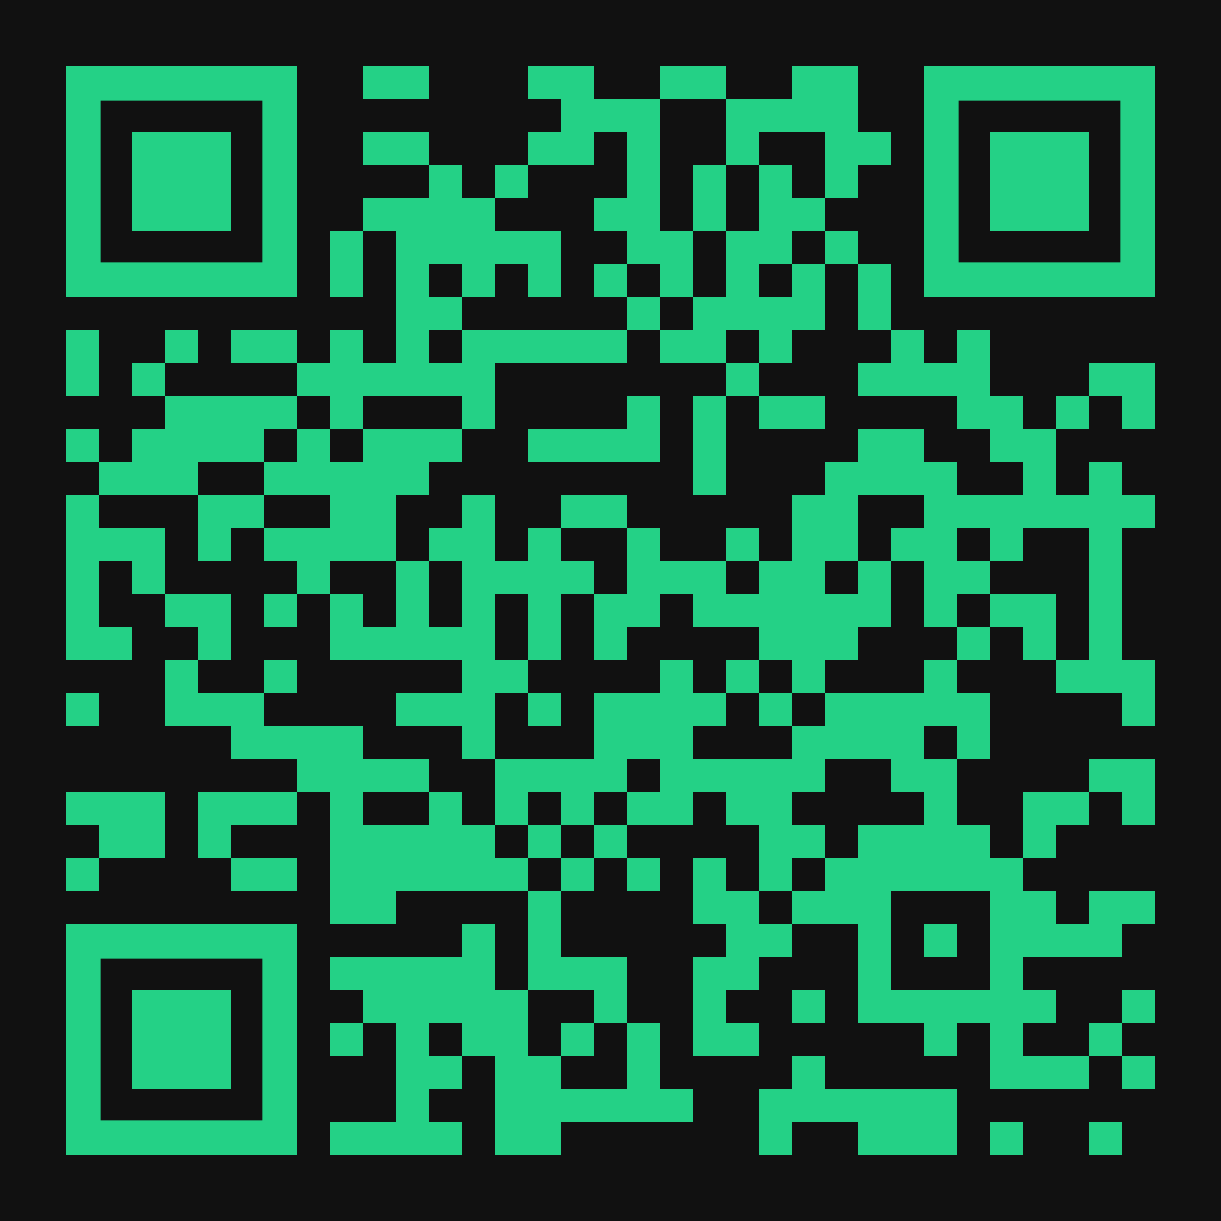
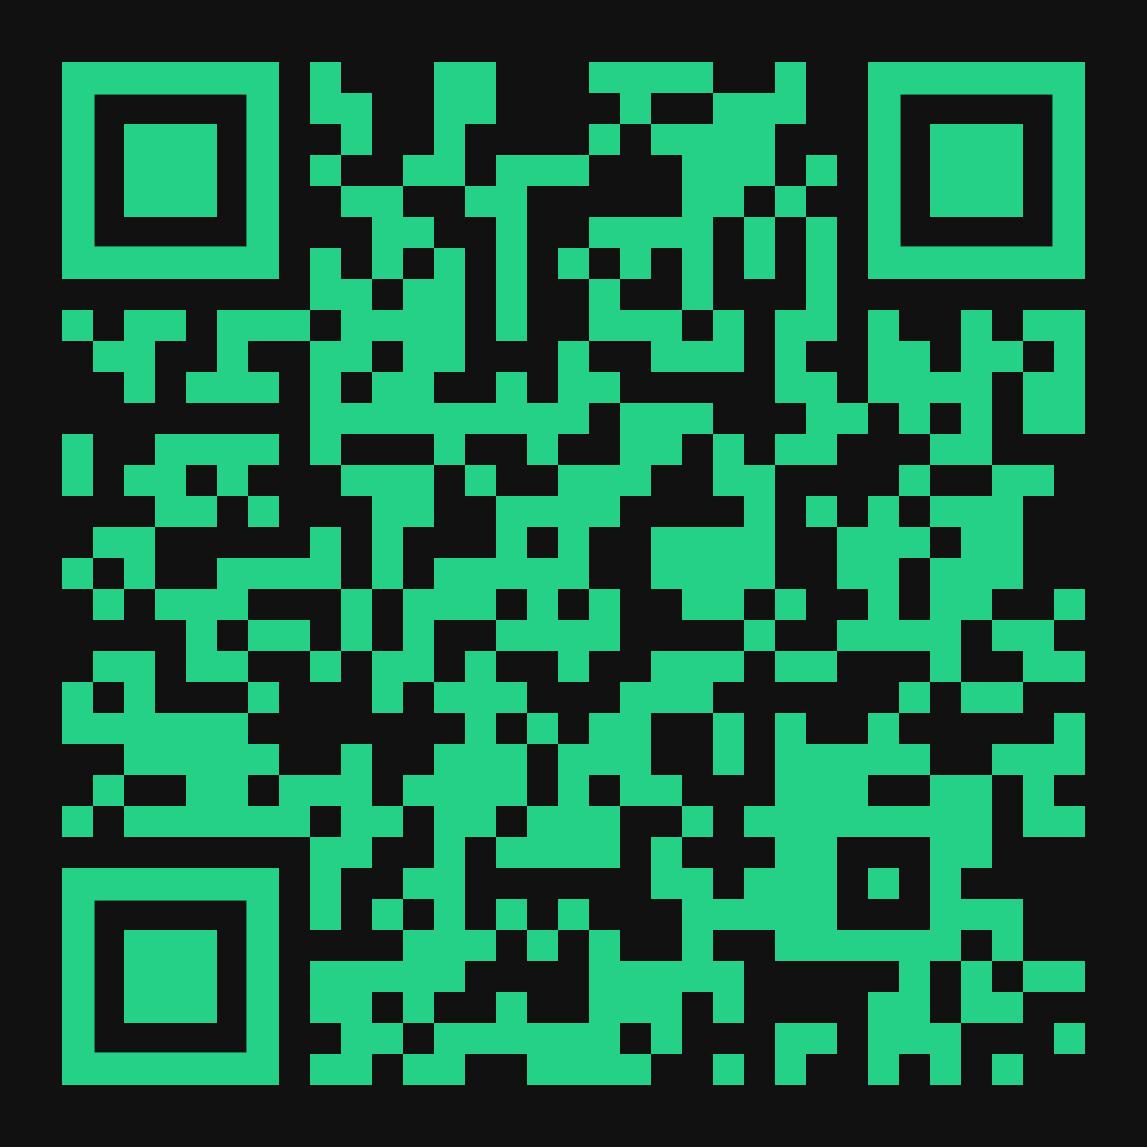
fix heroku host problems

diff --git a/public/css/landing.css b/public/css/landing.css
@@ -46,7 +46,7 @@ a {
     text-align: center;
 
     margin: auto;
-    border: 5px solid rgb(36, 209, 134);
+    border: 5px solid #24d186;
     border-radius: 20px;
 }
 #menu_container header{

diff --git a/README.md b/README.md
@@ -7,6 +7,6 @@
 - Gabriel
 - Adam
 
-Heroku game link: https://the-phishermen-joust.herokuapp.com/ <br><br>
+Heroku game link: https://the-phishermens-joust.herokuapp.com/ <br><br>
 QR code:<br>
 <img src = "./public/images/qr-code.png" width=30% >
